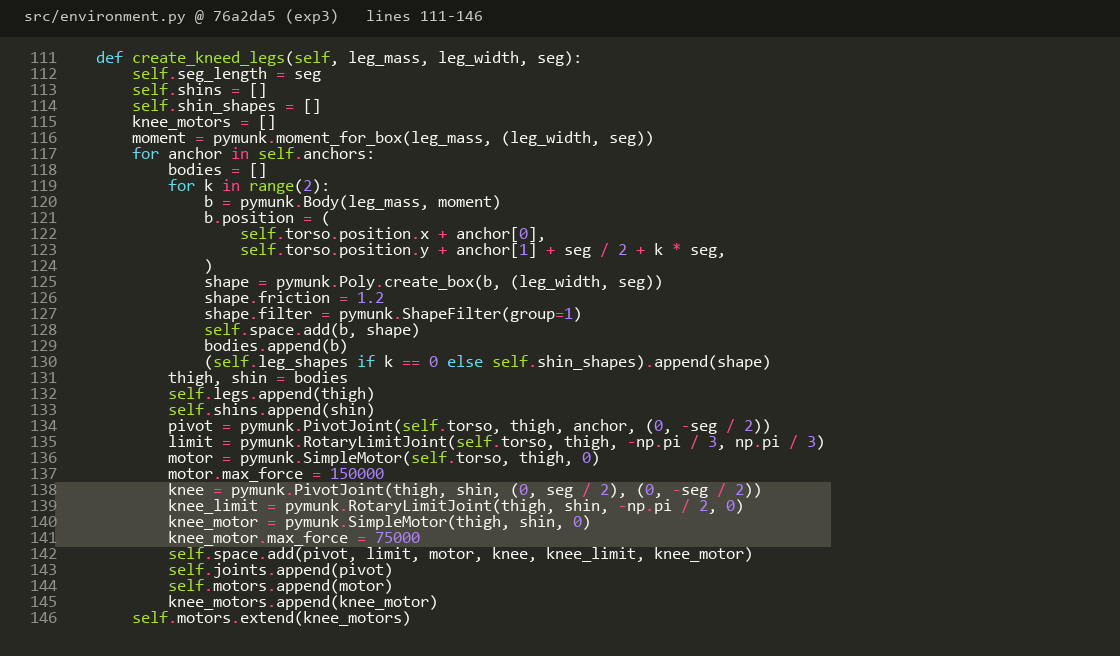
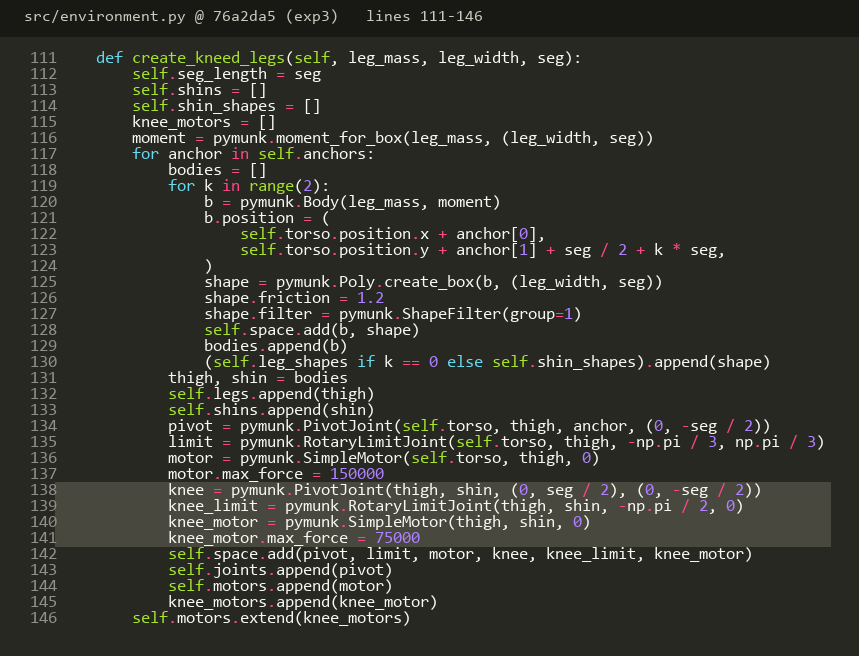
docs(blog): fact-check knees part 1 v2 before publishing
Replaying all 20 exp3 champions with the code that ran (76a2da5) reproduced
every stored test score, and the replays back the new numbers.

- Fix captions: the GIF shows the first 160 steps and one fall; the replay
  still is the step-44 frame; the experiment ran fall-rule line 221, not 219.
- Fix wording: IQM is the middle 6 of 10 seeds, 6,250 episodes, the narrower
  unit-test claim, and line 145 no longer promises data "before this post
  goes live".
- Add: what H6/H7 predicted; 8 of 10 kneed champions fell on the 200 px flat
  start; knee and hip limits leaked in both bodies; the half-step flag covers
  every straight seed in the 394 px IQM; H6/H7 were committed after the runs.
- Images: F1/F2 redrawn with straight in blue to match the replays (data
  unchanged; originals reproduce pixel for pixel); replay still and two code
  screenshots cropped for blog width.

diff --git a/docs/blog/01-knees-part-1.v2.md b/docs/blog/01-knees-part-1.v2.md
@@ -10,10 +10,10 @@ Alt titles:
 
 I gave my simulated four-legged robot knees, expecting better handling of slopes. Instead, every kneed champion fell on every test course.
 
-![Straight and kneed champions on a test course](images/dive-replay.gif)
-> **Why it's here:** The result before the argument: the whole run on a held-out test course. **How to read it:** Straight is blue (top) and knees orange (bottom); counters and ruler are in px, so watch the lower lane end. **Why it matters:** It shows what 100 of 100 falls looks like in motion.
+![Two-lane replay: straight legs (blue, top) keep walking; knees (orange, bottom) lunge to 263 px and fall](images/dive-replay.gif)
+> **Why it's here:** The result before the argument: the first 160 of 600 steps on a held-out test course, best straight seed against best kneed seed. **How to read it:** Straight is blue (top) and knees orange (bottom); counters and ruler are in px, so watch the lower lane end. **Why it matters:** It shows one of those 100 falls in motion.
 
-What I found points at my own rules and a bug, not knees as such. Two of those are in the code. The third, that the reward makes diving pay, is still a guess.
+What I found points at my own rules and a bug, not knees as such. Two problems are in the code: a fall rule that counts a low torso as a fall, and joint limits that did not hold. The third, that the reward makes a forward dive pay, is still a guess.
 
 ## The experiment
 
@@ -40,7 +40,7 @@ Reward per step is +2 times forward torso movement, and -0.1 for standing still 
 The fall rule matters most. A "fall" is any of these: tilt above 1.2 rad, the torso sinking 25 px below ground, or the lowest corner of the torso box reaching ground height. That last check is purely geometric, so a level but low torso counts as a fall. Optional tilt and energy terms were off (default `baseline` mode).
 
 ![The fall rule used in the experiment](images/fitness-fall-rule.png)
-> **Why it's here:** The code behind the rule above, and my main suspect. **How to read it:** Line 205 flags the lowest torso corner reaching ground height; lines 219 and 221 join it to tilt and sinking with `or`, and line 223 ends the episode. **Why it matters:** Any one condition kills the walker, so tilt is not required.
+> **Why it's here:** The code behind the rule above, and my main suspect. **How to read it:** Line 205 flags the lowest torso corner reaching ground height; line 221 (the branch this experiment ran; 219 is for other fitness modes) joins it to tilt and sinking with `or`, and line 223 ends the episode. **Why it matters:** Any one condition kills the walker, so tilt is not required.
 
 ## How I built the knees
 
@@ -66,7 +66,7 @@ Knees is an opt-in flag, off by default, so the old creature is unchanged.
 
 ## Results
 
-I ran 10 seeds per body. A seed is one random starting point for a training run. I report the IQM, the mean of the middle 50% of seeds, so one odd run cannot swing it. Brackets are 95% bootstrap confidence intervals (10,000 resamples). Cliff's δ is how often one group beats the other: -1 means knees are always lower, 0 no difference.
+Before training I wrote down two predictions: H6, knees go further on the test courses; H7, knees fall less. I ran 10 seeds per body. A seed is one random starting point for a training run. I report the IQM, the mean of the middle 6 of 10 seeds, so one odd run cannot swing it. Brackets are 95% bootstrap confidence intervals (10,000 resamples). Cliff's δ is how often one group beats the other: -1 means knees are always lower, 0 no difference.
 
 | Test courses | Straight | Knees |
 |---|---|---|
@@ -80,34 +80,34 @@ I ran 10 seeds per body. A seed is one random starting point for a training run.
 
 The 100 episodes per body are 10 seeds times 10 courses. A random kneed seed beats a random straight seed 24% of the time.
 
-![Final test distance per seed](../evolving-virtual-creatures/01-knees/screenshots/F2-final-test-distance.png)
-> **Why it's here:** The spread behind the IQM. **How to read it:** One dot per seed, distance in px; knees are blue and straight orange, each with train (light, left) and test (dark, right), and the bar is the IQM with its 95% bootstrap interval. **Why it matters:** Knee dots sit within about 140-250 px, while straight dots run from about 140 to over 1,100 px, hence the wide interval and p of 0.054.
+![Dot plot of final distance per seed: kneed seeds sit at about 140-300 px, straight seeds spread from about 140 to 1,700 px](images/F2-final-distance.png)
+> **Why it's here:** The spread behind the IQM. **How to read it:** One dot per seed, distance in px; knees are orange and straight blue, as in the replays, each with train (light, left) and test (dark, right), and the bar is the IQM with its 95% bootstrap interval. **Why it matters:** Knee dots sit within about 140-300 px, while straight dots run from about 140 to about 1,700 px, hence the wide interval and p of 0.054.
 
-The kneed champions also fell on every easy course: the train-like evaluation courses in each seed's `final_test.json` show a fall rate of 1.0 for all 10 kneed seeds. The gap is large but uncertain: the straight interval runs from 190 to 718 px, and the two-sided p of 0.054 does not clear 0.05.
+The kneed champions also fell on every easy course: the train-like evaluation courses in each seed's `final_test.json` show a fall rate of 1.0 for all 10 kneed seeds. Most of them never reached a slope. Every course starts with 200 px of flat ground, and 8 of the 10 kneed champions fell on that flat start, at the same spot (within 1 px) on all 20 courses they were scored on. The gap is large but uncertain: the straight interval runs from 190 to 718 px, and the two-sided p of 0.054 does not clear 0.05.
 
-Deviation: My pre-registration said 30 seeds per variant. I ran 10 to save laptop time (34 core-hours, and the CPU hit 87 °C), and I did not record that as a deviation at the time. With 10 seeds, a p of 0.054 is underpowered, not evidence of "no difference".
+Deviation: My pre-registration said 30 seeds per variant. I ran 10 to save laptop time (34 core-hours, and the CPU hit 87 °C), and I did not record that as a deviation at the time. With 10 seeds, a p of 0.054 is underpowered, not evidence of "no difference". A second gap: I committed H6 and H7 only after the runs finished (the runs logged uncommitted changes), so the repo cannot prove the predictions came first.
 
-![Learning curves on test courses](../evolving-virtual-creatures/01-knees/screenshots/F1-learning-curves.png)
-> **Why it's here:** When knees stop improving. **How to read it:** X is training episodes and y is champion test distance in px; each line is the IQM over 10 seeds with its 95% bootstrap band, knees a solid blue line and straight a dashed orange one. **Why it matters:** The blue line climbs to about 130 px by 6,000 episodes (a quarter of the budget) and then creeps to about 160, while orange keeps climbing and its band widens.
+![Learning curves: knees flatten near 160 px; straight climbs to about 395 px](images/F1-learning-curves.png)
+> **Why it's here:** When knees stop improving. **How to read it:** X is training episodes and y is champion test distance in px; each line is the IQM over 10 seeds with its 95% bootstrap band, straight a solid blue line and knees a dashed orange one. **Why it matters:** The orange knee line climbs to about 130 px by 6,250 episodes (a quarter of the budget) and then creeps to about 160, while the blue straight line keeps climbing and its band widens.
 
 From each seed's `history.csv`, the median best training score at 20/40/60/80/100% of the budget was 246/427/516/594/782 for straight and 112/153/182/172/174 for knees. The kneed median test distance was 154 px at 80% and 162 px at 100%.
 
 ## What I measured, what I found, what I'm guessing
 
-**Found in the code.** I inspected the code and ran a diagnostic replay of kneed seeds 0, 1 and 4. Two things came out of it.
+**Found in the code.** I inspected the code and replayed every champion on its held-out courses with the code that ran. Two things came out of it.
 
-First, the fall events had small tilt, between 0.07 and 0.78 rad. These were low torsos, not tip-overs: the geometric check from the experiment section fired.
+First, all 100 kneed test falls had small tilt, between 0.06 and 0.82 rad, under the 1.2 rad limit. These were low torsos, not tip-overs: the geometric check from the experiment section fired every time, never tilt or sinking.
 
-![Replay at the end of a kneed episode](images/replay-course-a.png)
-> **Why it's here:** The frozen evidence frame from the replay GIF. **How to read it:** This is the last frame of the two-lane view, straight in blue (214 px) on top and knees in orange (263 px) below with the red FELL badge. The kneed torso is tilted about 40-45°, roughly 0.78 rad. **Why it matters:** That is below the 1.2 rad (69°) threshold, so the geometric check ended the episode, not a tip-over.
+![Frame where the kneed episode ends: straight legs at 214 px; kneed robot collapsed at 263 px with a red FELL badge](images/replay-course-a.png)
+> **Why it's here:** The frozen evidence frame from the replay GIF. **How to read it:** This is the two-lane view at the kneed fall (step 44), straight in blue (214 px) on top and knees in orange (263 px) below with the red FELL badge. The kneed torso is tilted about 40-45°, roughly 0.78 rad, near the top of the range above. **Why it matters:** That is below the 1.2 rad (69°) threshold, so the geometric check ended the episode, not a tip-over.
 
-Second, the knees bent to 116-128°, past the 90° limit. The limit is a soft joint that corrects only after it is violated, and the 10 rad/s motor outran it. This was my bug.
+Second, in all ten kneed seeds the knees bent to 103-143°, past the 90° limit, and up to 81° the wrong way past straight. The limit is a soft joint that corrects only after it is violated, and the 10 rad/s motor outran it. The ±60° hip limits leaked the same way, in both bodies: up to 92° with straight legs and 148° with knees. This was my bug.
 
 **Hypothesis.** Here is why I think the GA settles on a dive. No experiment has isolated this, so the arithmetic is illustration, not proof.
 
 With +2 per pixel and one -100 fall, a 200 px lunge earns about +400 minus 100, so about +300. The kneed champions' per-seed test means were 138-245 px. That beats an early clumsy walker, so the GA can settle there.
 
-I underplayed a second warning. The analysis reruns each champion at half the physics timestep, and flags it as possibly exploiting the simulator if distance drops by over 30%. 8 of 10 straight seeds and 10 of 10 kneed seeds were flagged, with an IQM drop of about 72-73% (73.2% knees, 72.1% straight). Both gaits depend heavily on step size.
+I underplayed a second warning. The analysis reruns each champion at half the physics timestep, and flags it as possibly exploiting the simulator if distance drops by over 30%. 8 of 10 straight seeds and 10 of 10 kneed seeds were flagged, and the IQM distance fell by about 72-73% (73.2% knees, 72.1% straight). Both gaits depend heavily on step size. Every straight seed inside the 394 px IQM was flagged, so that number leans on step size too. The kneed falls do not: they stay at 100/100 at half step.
 
 Straight legs also fell, 17/100 under the same rule, so the rule alone does not explain 100/100. A bent knee lowers the torso toward the geometric trigger; a stiff stick cannot.
 
@@ -122,26 +122,24 @@ The bundled change (body, 4 motors and a bigger brain) limits both predictions. 
 ## Lessons from this case
 
 - **Test what ends an episode on its own.** A level torso can be "dead" under a geometric rule, and I only saw that after replaying the falls.
-- **Check that limits hold under full motor power.** My 90° limit let the knee reach 128°.
+- **Check that limits hold under full motor power.** My 90° knee limit let knees reach 143°, and the hips passed their 60° limit in both bodies.
 - **A fitness number says "worse", never "why".**
 - **One change can be three.** "Add knees" was a body, four motors and a bigger brain, so I cannot say which mattered.
 - **Log deviations when you make them.** I cut 30 seeds to 10 and did not write it down.
 
 ## What's next (Part 2)
 
-This is planned, not run. Part 2 trains straight, knees, and a Spot-inspired knee (14-150°, standing bent 30°), all with a new fall rule: -2 reward per step while the torso touches the ground, instead of ending the episode. Knee limits are enforced in code after every physics step. Training moves to GitHub Actions.
+The full experiment is planned, not run (a 2-seed pilot has run). Part 2 trains straight, knees, and a Spot-inspired knee (14-150°, standing bent 30°), all with a new fall rule: -2 reward per step while the torso touches the ground, instead of ending the episode. Knee limits are enforced in code after every physics step. Training moves to GitHub Actions.
 
-Part 2 fixes the rule and the limit together, so it will not say which mattered. Two runs would separate them: (a) the kneed body with the enforced limit under the old fall rule, which I would want to run too, and (b) the straight body under the new penalty rule, which is already in Part 2's plan.
+Part 2 fixes the rule and the limit together, so it will not say which mattered. Two runs would separate them: (a) the kneed body with the enforced limit under the old fall rule, which I would want to run too, and (b) the straight body under the new penalty rule alone. Part 2's straight body also gets new physics guards, so it does not isolate the rule.
 
 ## How I built this
 
-I designed the experiments, chose what to test from the papers I read, and made the calls on fairness and results. AI coding agents (Claude) wrote most of the code from my plans; I reviewed the changes, and automated tests checked every run. Unit tests check that the straight creature's sensors and config hash are unchanged. The mistakes here, including the knee bug, are mine.
+I designed the experiments, chose what to test from the papers I read, and made the calls on fairness and results. AI coding agents (Claude) wrote most of the code from my plans; I reviewed the changes, and automated tests checked every run. Unit tests check that the straight creature's input count, legs, motors and config hash are unchanged. The mistakes here, including the knee bug, are mine.
 
 ## Code and data
 
-Repo: [github.com/000wahab000/Evolution](https://github.com/000wahab000/Evolution). Experiment config: [`experiments/exp3_knees.json`](https://github.com/000wahab000/Evolution/blob/main/experiments/exp3_knees.json). Hypotheses: [`experiments/HYPOTHESES.md`](https://github.com/000wahab000/Evolution/blob/main/experiments/HYPOTHESES.md). Fall and reward code: [`src/environment.py`](https://github.com/000wahab000/Evolution/blob/main/src/environment.py).
+Repo: [github.com/000wahab000/Evolution](https://github.com/000wahab000/Evolution). Experiment config: [`experiments/exp3_knees.json`](https://github.com/000wahab000/Evolution/blob/main/experiments/exp3_knees.json). Hypotheses: [`experiments/HYPOTHESES.md`](https://github.com/000wahab000/Evolution/blob/main/experiments/HYPOTHESES.md). Fall and reward code as it ran: [`src/environment.py` at 76a2da5](https://github.com/000wahab000/Evolution/blob/76a2da5/src/environment.py).
 Full numbers: [`results.md`](https://github.com/000wahab000/Evolution/blob/main/docs/evolving-virtual-creatures/01-knees/results.md).
 
-The raw per-seed results and the diagnostic script will be published with the repo before this post goes live.
-
-<!-- TODO: check links resolve after merge -->
+I'll add the raw per-seed results and the diagnostic script to the repo.
